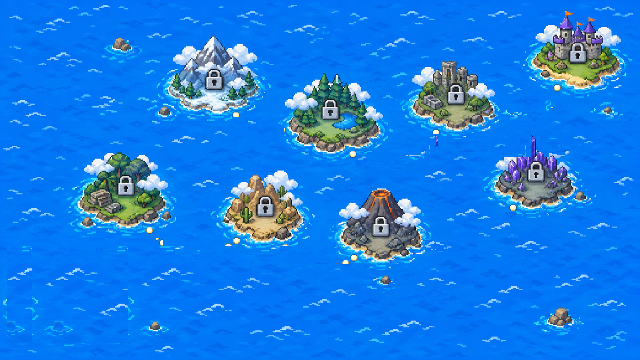
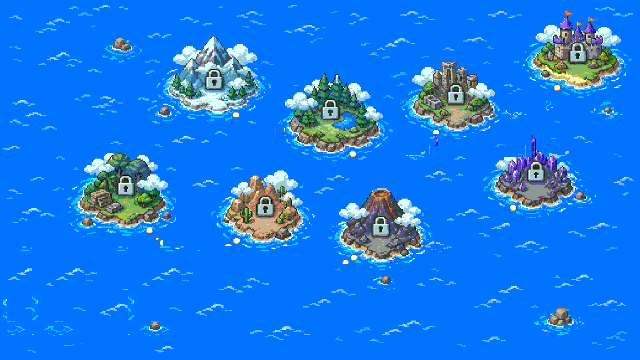
fix(assets): cuantiza la plancha del mapamundi, 324 KB -> 27 KB
Se me paso en el commit anterior: cuantice las 6 vistas de la Isla 0 pero no la
plancha del mapa, que salia de clean_overworld_plate.py sin pasar por
postprocess.py. Quedo con 49.266 colores y 324 KB, el asset mas grande del set.

A 48 colores baja a 27 KB sin perdida visible: el oceano queda incluso mas
limpio, porque el azul plano se lee mas como pixel art.

Para que no se repita, clean_overworld_plate.py ahora termina imprimiendo el
comando de cuantizacion que falta, y ASSETS.md documenta A-6 como dos pasos.

diff --git a/scripts/clean_overworld_plate.py b/scripts/clean_overworld_plate.py
@@ -166,6 +166,12 @@ def main():
         len(p) for p in leftover
         if sum(luminance(check.load()[x, y]) for x, y in p) / len(p) >= BRIGHT_MEAN
     ]
+    print()
+    print('FALTA UN PASO: esta plancha todavia NO esta cuantizada.')
+    print('La imagen generada trae ~49.000 colores y pesa 324 KB. Corre esto:')
+    print('  python scripts/postprocess.py %s %s --size 640x360 --colors 48' % (DST, DST))
+    print('Cuantizada baja a 27 KB sin perdida visible.')
+    print()
     print('manchas en agua abierta: %d' % len(blobs))
     print('clasificadas como camino: %d manchas, %d pixeles' % (
         len(blobs) - len(kept), len(road)))

diff --git a/.kiro/specs/ASSETS.md b/.kiro/specs/ASSETS.md
@@ -266,14 +266,22 @@ anti-aliasing, no gradients. No characters, no people, no text, no letters, no
 numbers, no UI frames, no borders.
 ```
 
-**Post-proceso — OBLIGATORIO:**
+**Post-proceso — OBLIGATORIO, son DOS pasos:**
 
 ```bash
+# 1. borra el camino punteado que trae la imagen y el pueblo tropical de la Isla 0,
+#    rellenando con océano. Lee de assets/art/generated/a6_overworld_map.png
 python scripts/clean_overworld_plate.py
+
+# 2. cuantiza. El paso 1 NO cuantiza, y la imagen generada trae ~49.000 colores
+python scripts/postprocess.py \
+  public/assets/art/_gameready/scene_overworld_map.png \
+  public/assets/art/_gameready/scene_overworld_map.png --size 640x360 --colors 48
 ```
 
-Le borra el camino punteado que trae la imagen y borra el pueblo tropical de la Isla 0, rellenando con
-océano. Lee de `assets/art/generated/a6_overworld_map.png` y escribe la plancha final.
+> El paso 2 es fácil de olvidar y sale caro: sin cuantizar, la plancha pesa **324 KB** y es el asset más
+> grande del set. Cuantizada baja a **27 KB**, sin pérdida visible — el océano queda incluso más limpio.
+> El paso 1 termina imprimiendo el comando del paso 2 para que no se pase por alto.
 
 > **Lo que se aprendió peleándola.** El punteado generado venía **roto**: dos cadenas cortadas y la isla
 > jugable sin ninguna salida — el héroe no podía salir de la Isla 0. Y borrarlo por color falla tres veces:
